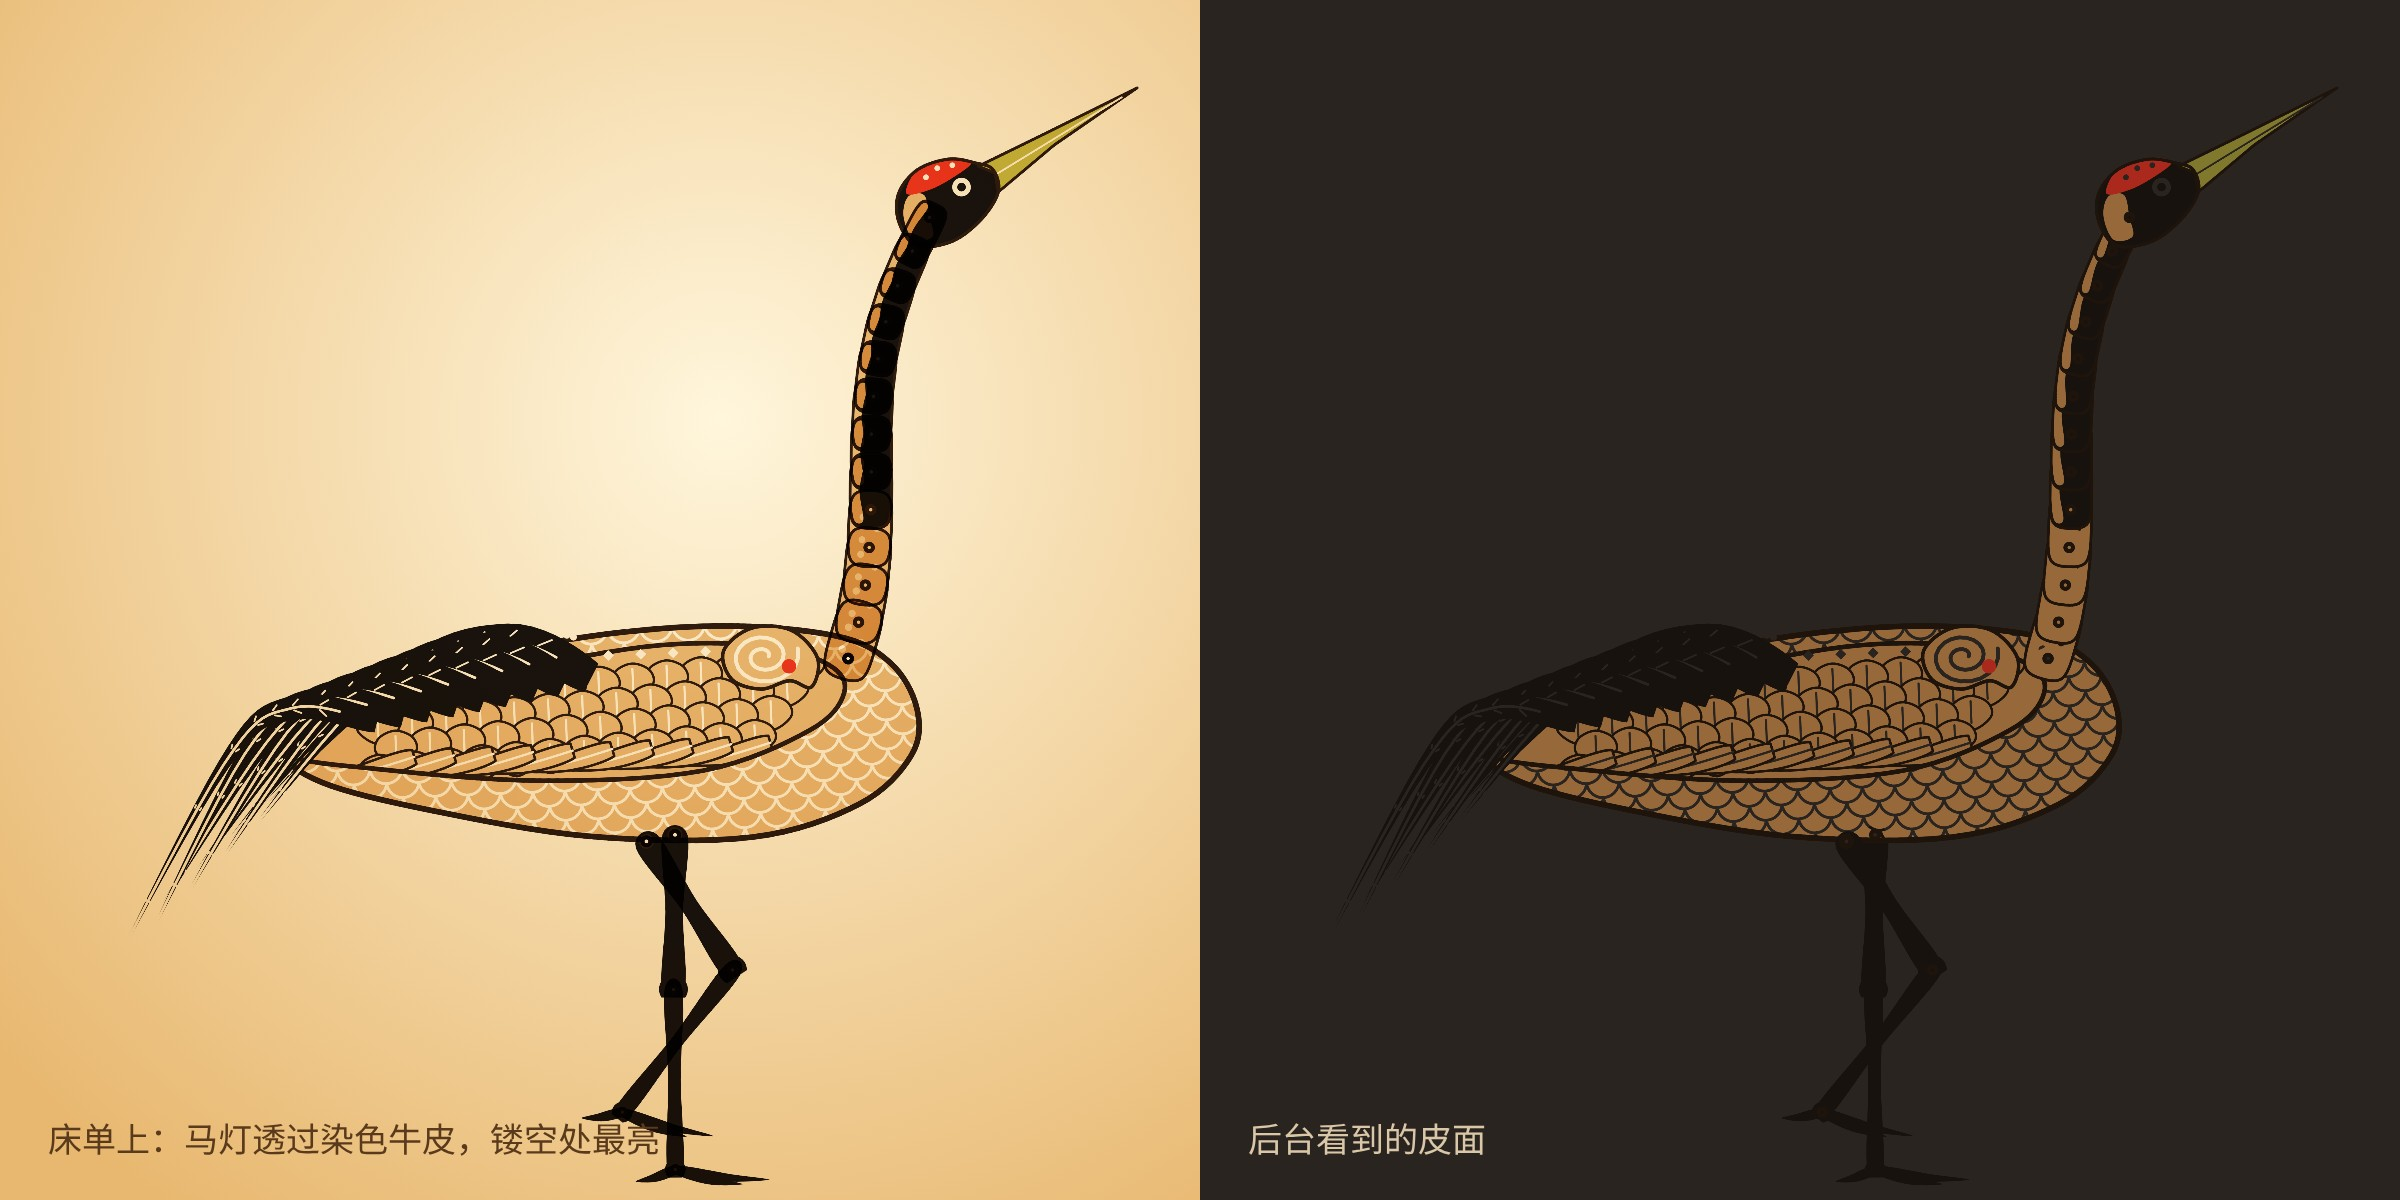
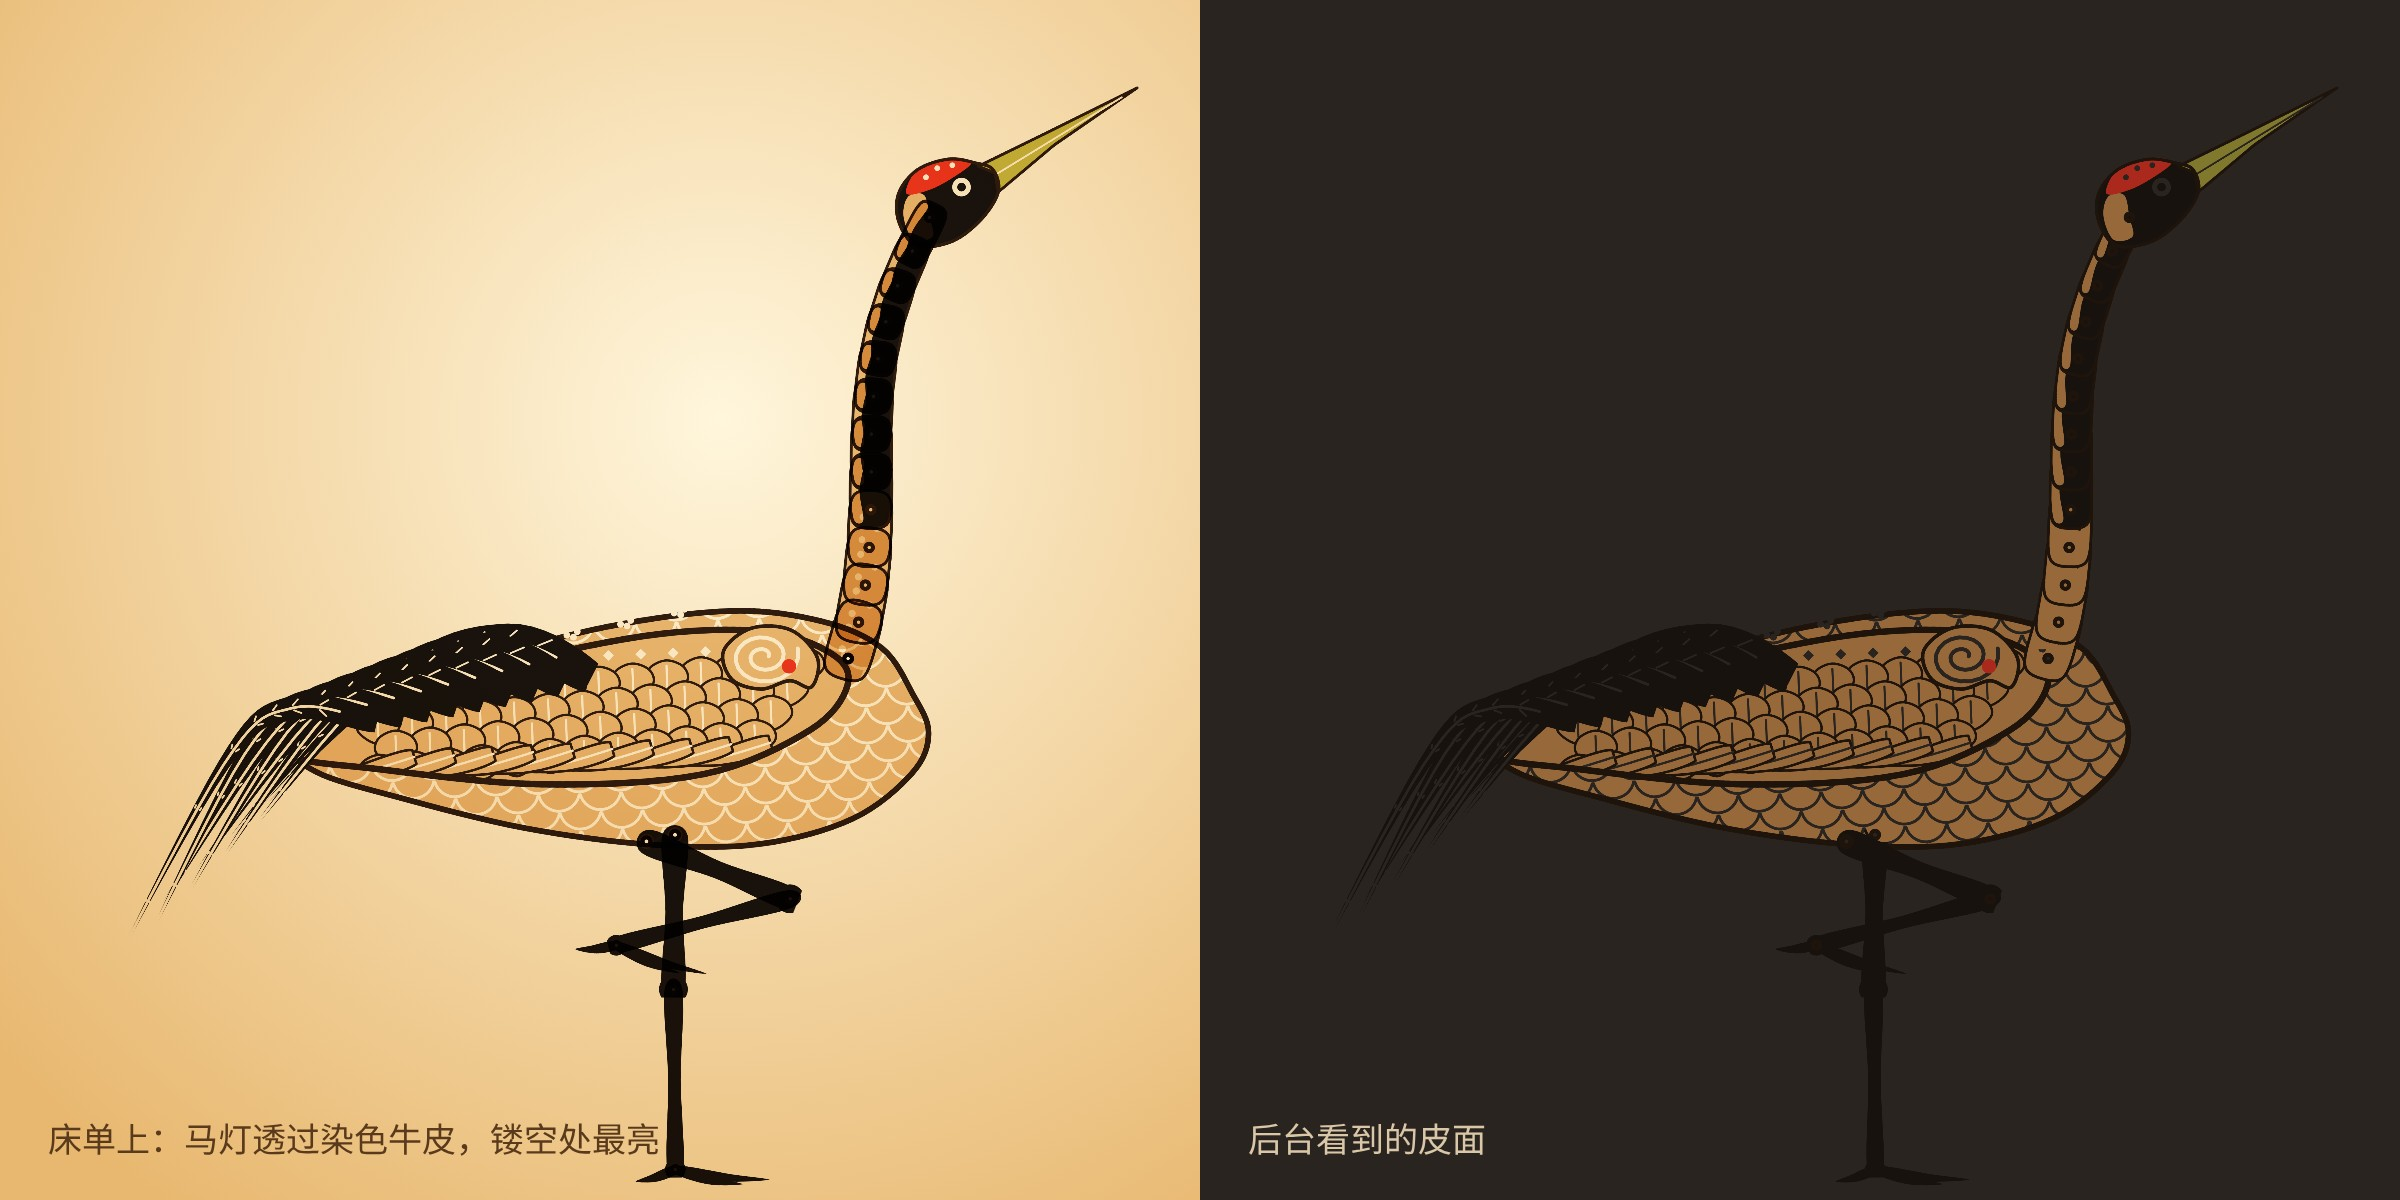
鹤的展示图按新造型更新；进度和交流区说明
Claude-Session: https://claude.ai/code/session_018izVeBsCAWYGJUmZwpX2YC

Changed region(s): [[0.125, 0.4933, 0.4062, 0.8633], [0.625, 0.4933, 0.9062, 0.7092], [0.25, 0.8633, 0.2812, 0.9558]]

diff --git a/PROGRESS.md b/PROGRESS.md
@@ -29,7 +29,7 @@
 - [x] 鹤抬头时小满的反应：眼睛睁大、眉毛抬起、嘴张开、身子往前探
 - [x] 同一组部件（前臂和手）只往下面投一次接触阴影，手腕不再有暗边；皮肤亮边收一点；床单上的空白亮斑压一点
 - [x] 镜头放低、放宽一点，让膝盖和手完整入画；重渲静帧、造型检查图（固有色 | 剪影 | 简单打光）和 5 秒动态
-- [ ] 鹤：身体轮廓、两条腿和签子影子的重叠、抬头的预备—抬起—收势节奏（评审意见，下一步）
+- [x] 鹤：胸背有起伏、主翼外框加粗；收起的腿折成紧凑的"4"字；主签挪到身子后部，杆影不再和腿叠成一团；扬头前先下沉一点（预备）
 
 ### 等团队判断
 - 这个方向是否成立（够不够"惊艳"）。如果成立：按这个方向补其余镜头的场景、奶奶的新造型、来电时日光灯把一切冲平的那场戏。
